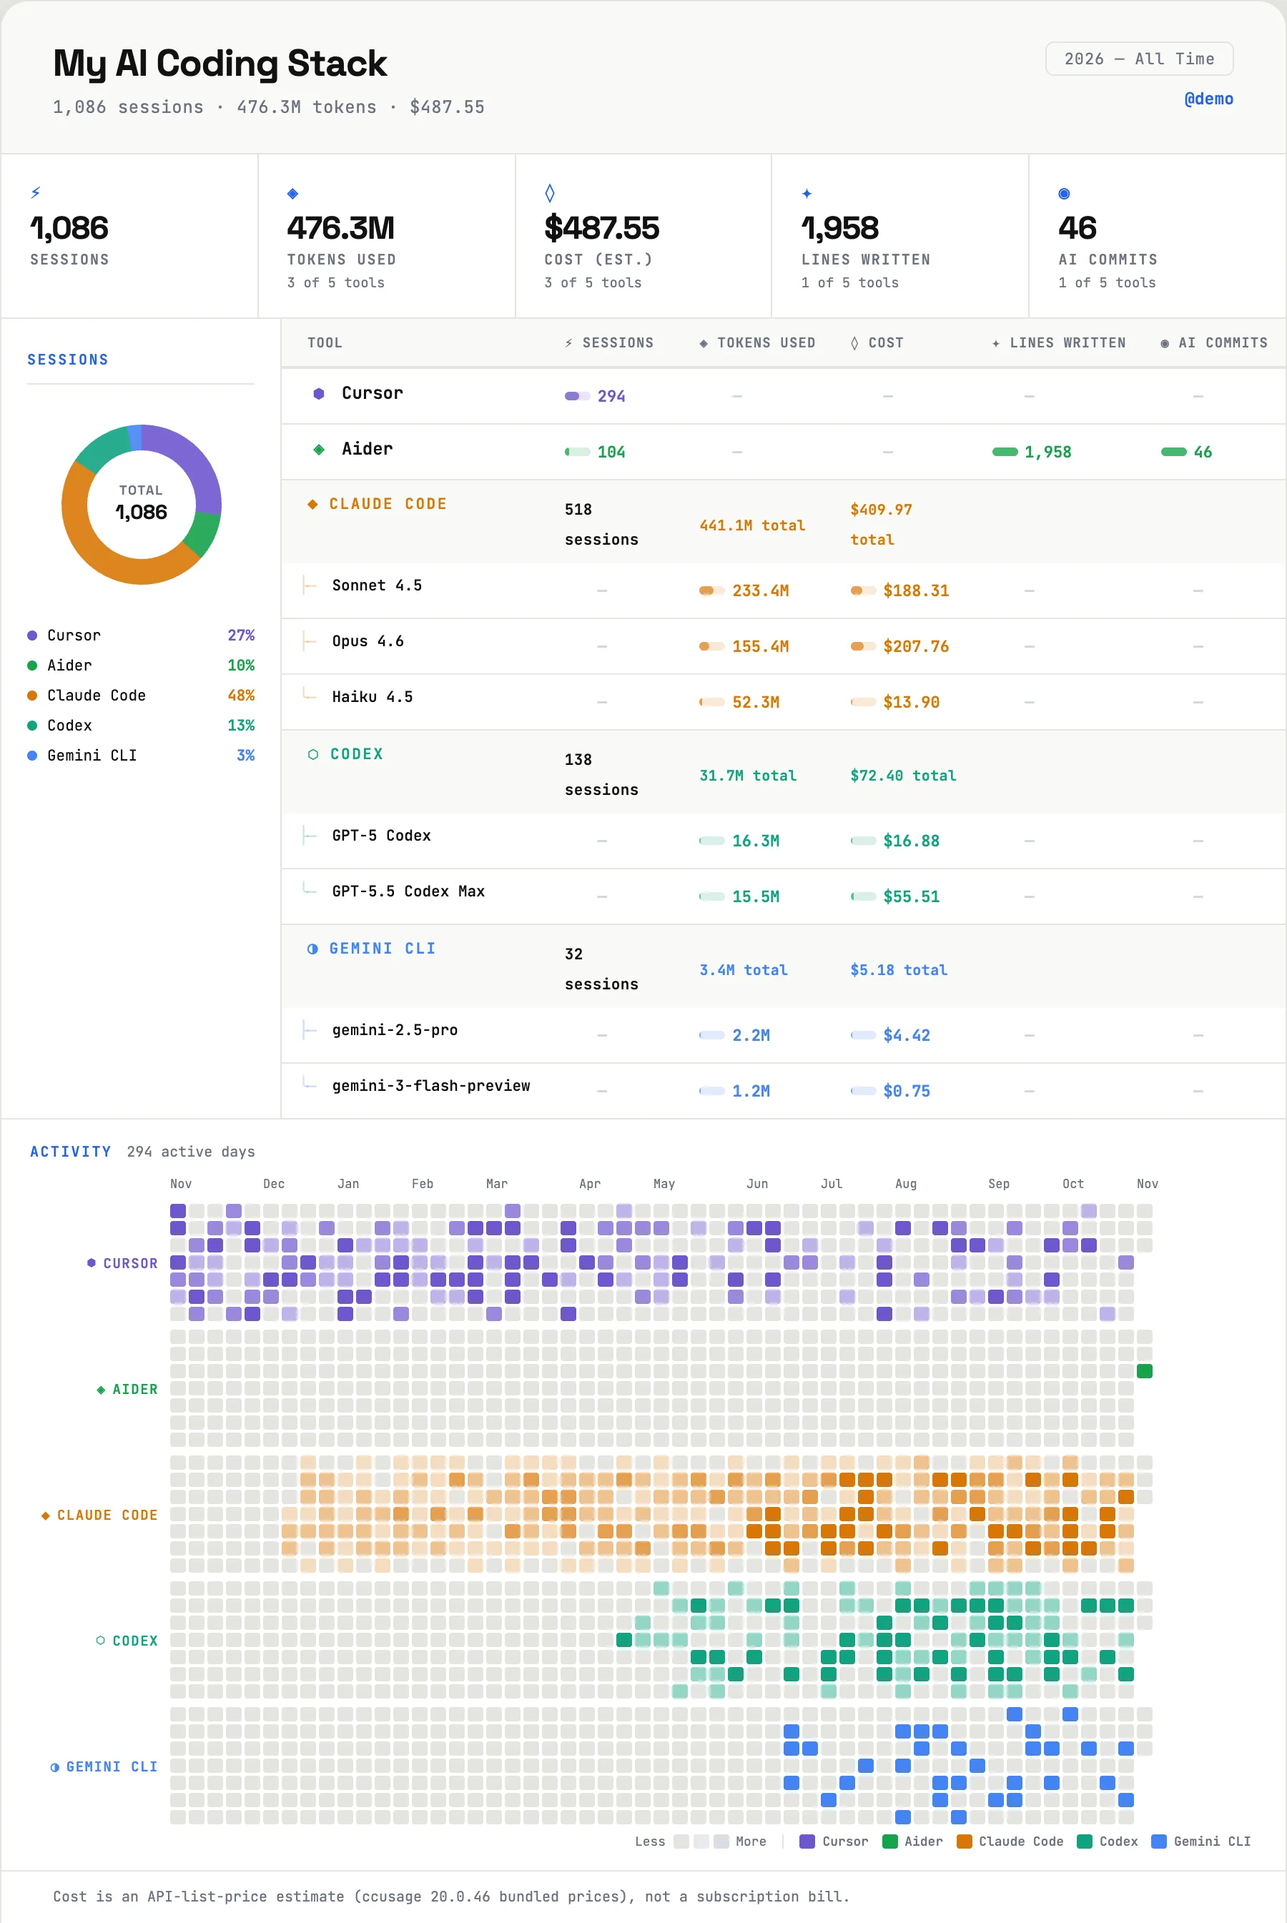
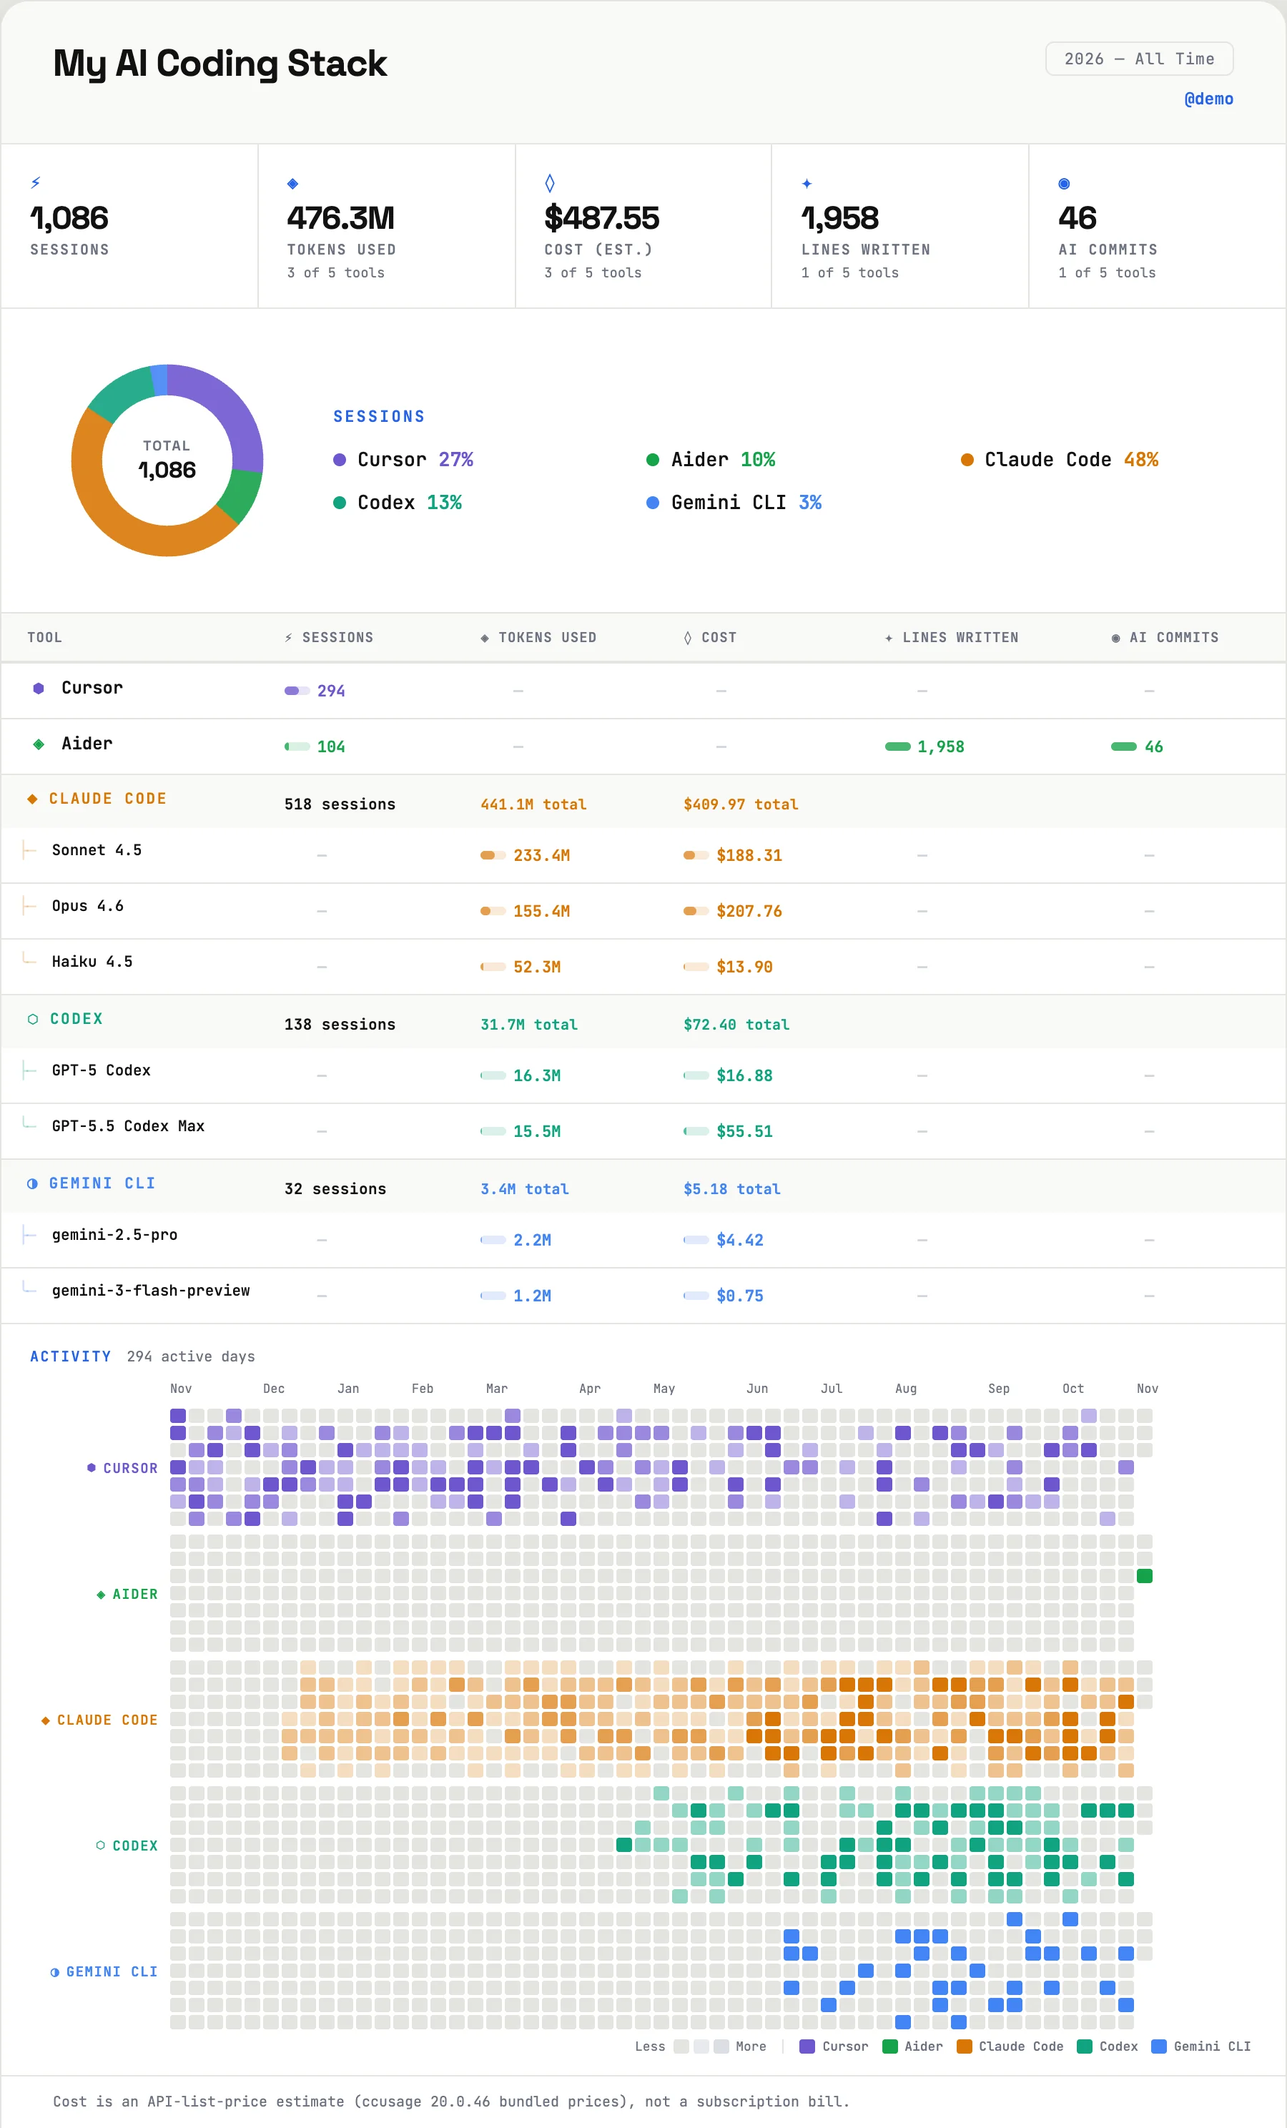
Release StackPulse 3.3.1
Show the full report preview, drop the repeated totals under the title, and leave only Docs in the header.

diff --git a/generator.js b/generator.js
@@ -96,14 +96,19 @@ export function generateHTML(input) {
     metric.key === 'cost_usd' && val != null && isPartialCost(tool.costInfo) ? '<sup class="s-flag">*</sup>' : '';
 
   // ── Header summary ─────────────────────────────────────────────────────────
+  // The stat strip already shows sessions, tokens and cost. The visible subtitle
+  // only adds something the strip does not: an incomplete-data warning, or a
+  // tool/metric count when those totals are absent. Share text and social meta
+  // still carry the numbers.
   const hdrParts = [];
   if (totals['sessions'])    hdrParts.push(totals['sessions'].toLocaleString() + (totals['sessions'] === 1 ? ' session' : ' sessions'));
   if (totals['tokens_used']) hdrParts.push(fmtVal(totals['tokens_used'], { key: 'tokens_used' }) + ' tokens');
   if (totals['cost_usd'])    hdrParts.push(fmtVal(totals['cost_usd'], { key: 'cost_usd' }));
-  if (incomplete.length && hdrParts.length) hdrParts.push('incomplete data');
-  const hdrSub = hdrParts.length
-    ? hdrParts.join(' \u00b7 ')
-    : topLevel.length + ' tool' + (topLevel.length !== 1 ? 's' : '') + ' \u00b7 ' + metrics.length + ' metric' + (metrics.length !== 1 ? 's' : '');
+  const fallbackSummary = topLevel.length + ' tool' + (topLevel.length !== 1 ? 's' : '') + ' \u00b7 ' + metrics.length + ' metric' + (metrics.length !== 1 ? 's' : '');
+  const shareParts = hdrParts.length ? hdrParts.slice() : [fallbackSummary];
+  if (incomplete.length) shareParts.push('incomplete data');
+  const shareSummary = shareParts.join(' \u00b7 ');
+  const hdrSub = incomplete.length ? 'incomplete data' : (hdrParts.length ? '' : fallbackSummary);
 
   // ── Table rows ─────────────────────────────────────────────────────────────
   let toolRows = '';
@@ -393,7 +398,7 @@ export function generateHTML(input) {
     '',
     shareToolLines,
     '',
-    hdrSub,
+    shareSummary,
     '',
     'Generated with stackpulse',
     'github.com/KrishnaSathvik/stackpulse',
@@ -428,10 +433,10 @@ export function generateHTML(input) {
   + '<meta name="viewport" content="width=device-width,initial-scale=1"/>\n'
   + '<title>' + title + '</title>\n'
   + '<meta property="og:title" content="' + title + '"/>\n'
-  + '<meta property="og:description" content="' + hdrSub + ' \u00b7 Generated with stackpulse"/>\n'
+  + '<meta property="og:description" content="' + shareSummary + ' \u00b7 Generated with stackpulse"/>\n'
   + '<meta name="twitter:card" content="summary_large_image"/>\n'
   + '<meta name="twitter:title" content="' + title + '"/>\n'
-  + '<meta name="twitter:description" content="' + hdrSub + '"/>\n'
+  + '<meta name="twitter:description" content="' + shareSummary + '"/>\n'
   + '<link rel="preconnect" href="https://fonts.googleapis.com"/>\n'
   + '<link href="https://fonts.googleapis.com/css2?family=JetBrains+Mono:wght@300;400;500;600&family=Space+Grotesk:wght@400;500;600;700&display=swap" rel="stylesheet"/>\n'
   + '<style>\n'
@@ -452,15 +457,16 @@ export function generateHTML(input) {
   + '.s-icon{font-size:13px;color:' + t.accent + ';margin-bottom:5px}\n'
   + '.s-val{font-family:' + t.displayFont + ';font-size:22px;font-weight:700;color:' + t.text + ';letter-spacing:-.5px;line-height:1}\n'
   + '.s-lbl{font-size:10px;font-weight:600;color:' + t.textMuted + ';text-transform:uppercase;letter-spacing:.1em;margin-top:5px}\n'
-  + '.body{display:flex;min-height:200px}\n'
-  + '.donut-panel{width:196px;flex-shrink:0;border-right:1px solid ' + t.border + ';padding:22px 18px;display:flex;flex-direction:column;gap:14px}\n'
-  + '.dp-title{font-size:10px;font-weight:700;color:' + t.accent + ';text-transform:uppercase;letter-spacing:.12em;padding-bottom:10px;border-bottom:1px solid ' + t.border + '}\n'
-  + '.dp-chart{display:flex;justify-content:center}\n'
-  + '.dp-legend{display:flex;flex-direction:column;gap:7px}\n'
-  + '.leg-item{display:flex;align-items:center;gap:7px}\n'
-  + '.leg-dot{width:7px;height:7px;border-radius:50%;flex-shrink:0}\n'
-  + '.leg-name{flex:1;overflow:hidden;text-overflow:ellipsis;white-space:nowrap;font-size:10.5px;color:' + t.text + '}\n'
-  + '.leg-pct{font-weight:700;font-size:10.5px;flex-shrink:0}\n'
+  + '.body{display:flex;flex-direction:column;min-height:200px}\n'
+  + '.donut-panel{display:flex;align-items:center;gap:32px;padding:22px 32px;border-bottom:1px solid ' + t.border + '}\n'
+  + '.dp-chart{flex:none;display:flex;justify-content:center}\n'
+  + '.dp-copy{flex:1;min-width:0;display:flex;flex-direction:column;justify-content:center;gap:14px}\n'
+  + '.dp-title{font-size:11px;font-weight:700;color:' + t.accent + ';text-transform:uppercase;letter-spacing:.14em}\n'
+  + '.dp-legend{display:grid;grid-template-columns:repeat(3,minmax(0,1fr));gap:12px 24px;align-content:center}\n'
+  + '.leg-item{display:flex;align-items:center;gap:8px;min-width:0}\n'
+  + '.leg-dot{width:9px;height:9px;border-radius:50%;flex-shrink:0}\n'
+  + '.leg-name{min-width:0;overflow:hidden;text-overflow:ellipsis;white-space:nowrap;font-size:13.5px;font-weight:500;color:' + t.text + '}\n'
+  + '.leg-pct{font-weight:700;font-size:13.5px;font-variant-numeric:tabular-nums}\n'
   + '.tbl-panel{flex:1;min-width:0}\n'
   + 'table{width:100%;border-collapse:collapse}\n'
   + 'thead tr{border-bottom:2px solid ' + t.border + ';background:' + t.surfaceAlt + '}\n'
@@ -522,6 +528,7 @@ export function generateHTML(input) {
   + '.ft-actions{display:flex;align-items:center;gap:8px}\n'
   + '.ft-btn{display:inline-flex;align-items:center;gap:5px;padding:6px 14px;border-radius:7px;font-size:10px;font-weight:600;letter-spacing:.04em;cursor:pointer;text-decoration:none;border:1px solid ' + t.borderAccent + ';background:' + t.surfaceAlt + ';color:' + t.textMuted + ';font-family:' + t.font + ';transition:all .15s ease;outline:none}\n'
   + '.ft-btn:hover{border-color:' + t.accent + ';color:' + t.accent + '}\n'
+  + '@media (max-width:720px){body{padding:16px 10px}.hdr{padding:20px 18px 16px}.stats{flex-wrap:wrap}.stat{flex:1 1 46%;min-width:120px}.donut-panel{flex-direction:column;align-items:flex-start;gap:16px;padding:18px 16px}.dp-legend{grid-template-columns:1fr 1fr;gap:10px 16px}.tbl-panel{overflow-x:auto}.hdr-title{font-size:22px}}\n'
   + '@media print{body{background:' + t.bg + ' !important;-webkit-print-color-adjust:exact;print-color-adjust:exact}.ft-actions{display:none !important}.card{box-shadow:none !important;width:100% !important;max-width:none !important}@page{margin:0;size:auto}}\n'
   + '</style>\n'
   + '</head>\n'
@@ -530,7 +537,7 @@ export function generateHTML(input) {
   + '  <div class="hdr">\n'
   + '    <div>\n'
   + '      <div class="hdr-title">' + title + '</div>\n'
-  + '      <div class="hdr-sub">' + hdrSub + '</div>\n'
+  + (hdrSub ? '      <div class="hdr-sub">' + hdrSub + '</div>\n' : '')
   + '    </div>\n'
   + '    <div class="hdr-right">\n'
   + '      <div class="badge">' + timeframe + '</div>\n'
@@ -540,16 +547,18 @@ export function generateHTML(input) {
   + '  <div class="stats">' + statCards + '</div>\n'
   + '  <div class="body">\n'
   + '    <div class="donut-panel">\n'
-  + '      <div class="dp-title">' + (primary ? primary.label : 'Breakdown') + '</div>\n'
   + '      <div class="dp-chart">\n'
-  + '        <svg width="140" height="140" viewBox="0 0 140 140">\n'
+  + '        <svg width="168" height="168" viewBox="0 0 140 140">\n'
   + (donutSegs || '<circle cx="70" cy="70" r="56" fill="none" stroke="' + t.border + '" stroke-width="18"/>')
   + '\n          <circle cx="70" cy="70" r="30" fill="' + t.surface + '"/>\n'
-  + '          <text x="70" y="63" text-anchor="middle" font-family="Space Grotesk,sans-serif" font-size="9" fill="' + t.textMuted + '" font-weight="600" letter-spacing="1">TOTAL</text>\n'
-  + '          <text x="70" y="80" text-anchor="middle" font-family="Space Grotesk,sans-serif" font-size="14" fill="' + t.text + '" font-weight="700">' + fmtVal(primary ? totals[primary.key] : null, primary) + '</text>\n'
+  + '          <text x="70" y="64" text-anchor="middle" font-family="Space Grotesk,sans-serif" font-size="8" fill="' + t.textMuted + '" font-weight="600" letter-spacing="1">TOTAL</text>\n'
+  + '          <text x="70" y="80" text-anchor="middle" font-family="Space Grotesk,sans-serif" font-size="13" fill="' + t.text + '" font-weight="700">' + fmtVal(primary ? totals[primary.key] : null, primary) + '</text>\n'
   + '        </svg>\n'
   + '      </div>\n'
-  + '      <div class="dp-legend">' + donutLegend + '</div>\n'
+  + '      <div class="dp-copy">\n'
+  + '        <div class="dp-title">' + (primary ? primary.label : 'Breakdown') + '</div>\n'
+  + '        <div class="dp-legend">' + donutLegend + '</div>\n'
+  + '      </div>\n'
   + '    </div>\n'
   + '    <div class="tbl-panel">\n'
   + '      <table>\n'

diff --git a/website/src/styles.css b/website/src/styles.css
@@ -185,7 +185,7 @@ code, kbd, pre { font-family: var(--font-mono); }
 .hero__cells { position: absolute; right: -40px; bottom: -30px; width: min(56vw, 760px); height: auto; opacity: .55;
   mask-image: radial-gradient(55% 60% at 60% 45%, #000 15%, transparent 72%); -webkit-mask-image: radial-gradient(55% 60% at 60% 45%, #000 15%, transparent 72%); }
 :root[data-theme='dark'] .hero__cells { opacity: .5; }
-.hero__inner { position: relative; display: grid; grid-template-columns: minmax(0, 540px) minmax(0, 1fr); gap: clamp(32px, 4vw, 64px); align-items: center; }
+.hero__inner { position: relative; display: grid; grid-template-columns: minmax(0, 0.9fr) minmax(0, 1.15fr); gap: clamp(28px, 3.2vw, 52px); align-items: center; }
 .hero h1 { font-size: var(--fs-hero); font-weight: 650; letter-spacing: -0.052em; line-height: .98; margin-top: 26px; }
 .hero h1 em { font-style: normal; background: var(--grad); -webkit-background-clip: text; background-clip: text; color: transparent; padding-right: .04em; }
 .hero__lede { margin-top: 24px; font-size: var(--fs-lede); max-width: 30em; }
@@ -195,11 +195,11 @@ code, kbd, pre { font-family: var(--font-mono); }
 .strip li + li { padding-left: 16px; border-left: 1px solid var(--border); }
 .strip b { display: block; font-size: 20px; color: var(--heading); font-weight: 650; letter-spacing: -0.02em; margin-bottom: 3px; }
 
-.hero__visual { position: relative; width: 800px; padding: 0 0 104px 56px; }
-.hero__report { transform: perspective(2200px) rotateY(-4deg) rotateX(1.5deg); transform-origin: 30% 50%; }
-.crop--hero { aspect-ratio: 1800 / 1400; }
-.crop--hero::after { content: ''; position: absolute; inset: auto 0 0; height: 120px; background: linear-gradient(transparent, var(--report-bg)); }
-.hero__term { position: absolute; left: 0; bottom: 0; width: min(500px, 82%); z-index: 2; box-shadow: var(--shadow-xl); }
+.hero__visual { position: relative; width: 100%; min-width: 0; padding: 0 0 72px 36px; }
+.hero__report { transform: none; }
+.crop--hero { aspect-ratio: 16 / 11; }
+.crop--hero::after { content: ''; position: absolute; inset: auto 0 0; height: 64px; background: linear-gradient(transparent, var(--report-bg)); }
+.hero__term { position: absolute; left: 0; bottom: 0; width: min(420px, 78%); z-index: 2; box-shadow: var(--shadow-xl); }
 .hero__term .terminal__body { font-size: 12.5px; padding: 12px 16px 12px; }
 
 /* ─── 2. Product story ───────────────────────────────────────────────────── */
@@ -220,9 +220,9 @@ code, kbd, pre { font-family: var(--font-mono); }
 .sv img { width: 100%; }
 .sv__stats { display: none; }
 .sv--tools > img { border-bottom: 1px solid color-mix(in srgb, var(--heading) 9%, transparent); }
-.sv__row { display: grid; grid-template-columns: 172px minmax(0, 1fr); gap: 18px; align-items: center; padding: 20px 18px 22px; }
-.sv__donut img { max-width: 172px; margin: 0 auto; }
-.sv--tools .terminal { box-shadow: var(--shadow-md); }
+.sv__row { display: grid; grid-template-columns: minmax(0, 1fr); align-items: stretch; }
+.sv__donut img { width: 100%; max-width: none; margin: 0; }
+.sv--tools .terminal { margin: 16px 18px 18px; box-shadow: var(--shadow-md); }
 .sv--tools .terminal__body { font-size: 11.5px; line-height: 1.75; padding: 12px 14px 14px; }
 .sv__zoom { position: relative; display: block; width: 100%; padding: 0; border: 0; background: none; cursor: zoom-in; }
 .sv__zoomhint { position: absolute; right: 14px; bottom: 14px; display: inline-flex; align-items: center; gap: 6px; padding: 7px 11px; border-radius: 999px; background: rgba(16, 24, 40, .82); color: #fff; font: 600 12.5px/1 var(--font-sans); opacity: 0; transform: translateY(4px); transition: opacity .2s, transform .2s; }
@@ -299,7 +299,7 @@ code, kbd, pre { font-family: var(--font-mono); }
 .theme-card__check { position: absolute; top: -7px; right: -7px; display: grid; place-items: center; width: 22px; height: 22px; border-radius: 50%; background: var(--heading); color: var(--bg); box-shadow: 0 0 0 3px var(--bg); }
 .theme-card__check svg { stroke-width: 3; }
 .themes__stage .frame { position: relative; }
-.crop--theme { aspect-ratio: 1800 / 1180; }
+.crop--theme { aspect-ratio: 1800 / 1280; }
 .crop--theme img { animation: fade .4s ease; }
 @keyframes fade { from { opacity: 0; } to { opacity: 1; } }
 .themes__facts { list-style: none; display: flex; flex-wrap: wrap; justify-content: center; gap: 10px 28px; margin-top: 24px; }
@@ -473,12 +473,6 @@ code, kbd, pre { font-family: var(--font-mono); }
 }
 @media (max-width: 760px) {
   body { font-size: 16px; }
-  .header__inner { grid-template-columns: 1fr auto; }
-  .nav { display: none; }
-  .menu-btn { display: inline-grid; }
-  .mobile-nav { display: block; border-top: 1px solid var(--border); background: var(--bg); }
-  .mobile-nav[hidden] { display: none; }
-  .mobile-nav a { display: block; padding: 14px var(--gutter); text-decoration: none; color: var(--heading); font-weight: 500; border-bottom: 1px solid var(--border); }
   .hero h1 { letter-spacing: -0.045em; }
   .hero__cells { width: 140vw; right: -50vw; top: 40px; opacity: .4; }
   .hero__term .terminal__body { font-size: 12px; padding: 12px 14px; }
@@ -500,7 +494,7 @@ code, kbd, pre { font-family: var(--font-mono); }
   .sv--models img, .sv--activity img { width: 100%; max-width: 100%; height: auto; }
   .sv__row { grid-template-columns: minmax(0, 1fr); padding: 16px; width: auto; position: static; }
   .sv__donut { display: flex; justify-content: center; }
-  .sv__donut img { width: 100%; max-width: 280px; height: auto; }
+  .sv__donut img { width: 100%; max-width: 100%; height: auto; }
   .sv__zoomhint { opacity: 1; transform: none; }
   .terminal, .codeblock { max-width: 100%; }
   .terminal__body, .codeblock__body { white-space: pre-wrap; overflow-wrap: anywhere; }

diff --git a/website/src/components/sections.jsx b/website/src/components/sections.jsx
@@ -5,41 +5,26 @@ import { CellField, CommandCopy, Icon, Kicker, Logo, Shot, Terminal, shot, useZo
 // ── Header ──────────────────────────────────────────────────────────────────
 // `home` prefixes the section links: '' on the homepage, '/' on other pages.
 export function Header({ theme, onToggleTheme, home = '', current }) {
-  const [open, setOpen] = useState(false);
   const [scrolled, setScrolled] = useState(false);
   useEffect(() => {
     const onScroll = () => setScrolled(window.scrollY > 8);
     onScroll(); window.addEventListener('scroll', onScroll, { passive: true });
     return () => window.removeEventListener('scroll', onScroll);
   }, []);
-  useEffect(() => {
-    if (!open) return;
-    const onKey = (e) => e.key === 'Escape' && setOpen(false);
-    window.addEventListener('keydown', onKey);
-    return () => window.removeEventListener('keydown', onKey);
-  }, [open]);
   const next = theme === 'dark' ? 'light' : 'dark';
-  const links = NAV.map(n => ({ ...n, href: n.href.startsWith('#') ? home + n.href : n.href }));
   return (
     <header className={`header${scrolled ? ' is-scrolled' : ''}`}>
       <div className="container header__inner">
         <a className="brand" href={home || '#top'} aria-label="StackPulse home"><Logo /> StackPulse</a>
         <nav className="nav" aria-label="Main">
-          {links.map(n => <a key={n.href} href={n.href} aria-current={current === n.label ? 'page' : undefined}>{n.label}</a>)}
+          {NAV.map(n => <a key={n.href} href={n.href} aria-current={current === n.label ? 'page' : undefined}>{n.label}</a>)}
         </nav>
         <div className="header__actions">
           <button type="button" className="icon-btn theme-toggle" onClick={onToggleTheme} aria-label={`Switch to ${next} theme`} title={`Switch to ${next} theme`}>
             <Icon name={theme === 'dark' ? 'sun' : 'moon'} size={18} />
           </button>
-          <button type="button" className="icon-btn menu-btn" onClick={() => setOpen(o => !o)}
-            aria-expanded={open} aria-controls="mobile-nav" aria-label={open ? 'Close menu' : 'Open menu'}>
-            <Icon name={open ? 'close' : 'menu'} size={18} />
-          </button>
         </div>
       </div>
-      <nav id="mobile-nav" className="mobile-nav" hidden={!open} aria-label="Main">
-        {links.map(n => <a key={n.href} href={n.href} onClick={() => setOpen(false)}>{n.label}</a>)}
-      </nav>
     </header>
   );
 }

diff --git a/website/src/content.js b/website/src/content.js
@@ -22,11 +22,8 @@ export const COMMAND = 'npx stackpulse';
 export const NPM_URL = 'https://www.npmjs.com/package/stackpulse';
 export const GITHUB_URL = 'https://github.com/KrishnaSathvik/stackpulse';
 
-// Header links. On the docs page the section links point back to the homepage.
+// Header links. The landing page already shows the sections, so the header only links to docs.
 export const NAV = [
-  { label: 'Features', href: '#features' },
-  { label: 'Screenshots', href: '#screenshots' },
-  { label: 'Tools', href: '#tools' },
   { label: 'Docs', href: '/docs/' },
 ];
 

diff --git a/CHANGELOG.md b/CHANGELOG.md
@@ -1,5 +1,11 @@
 # Changelog
 
+## 3.3.1 — 2026-11-03
+
+### Report layout
+- The title no longer repeats the sessions, tokens, and cost already shown in the totals.
+- The sessions chart sits beside its legend, and the tool table uses the full width of the report.
+
 ## 3.3.0 — 2026-11-03
 
 Correctness release. No CLI flags, config keys or themes removed.
